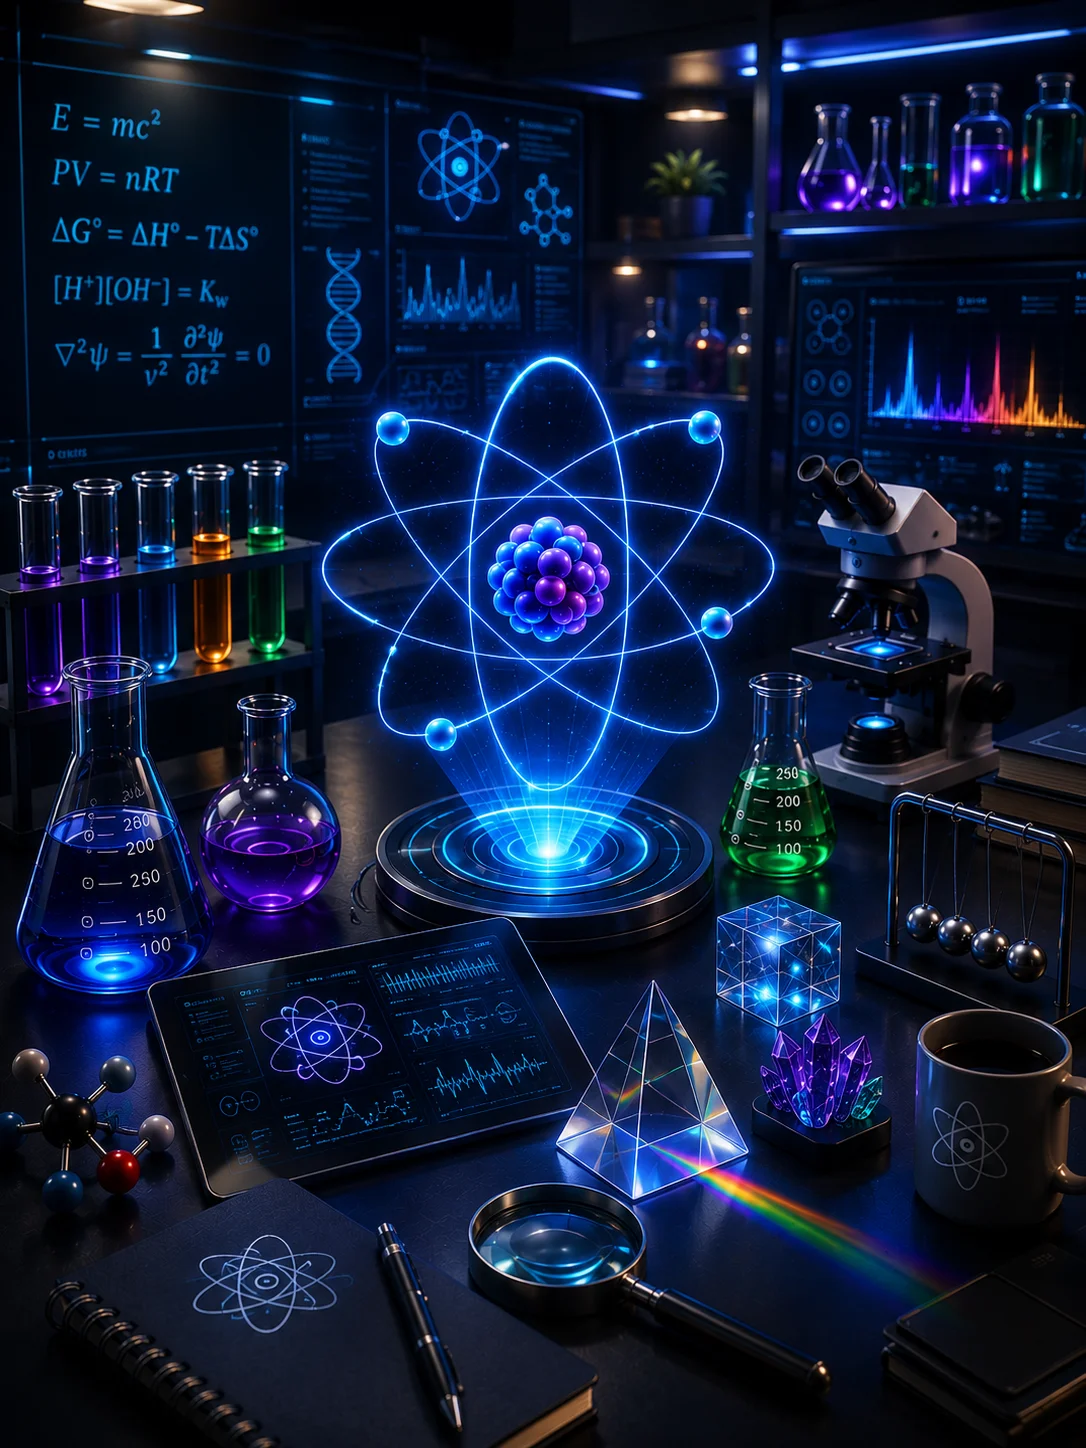
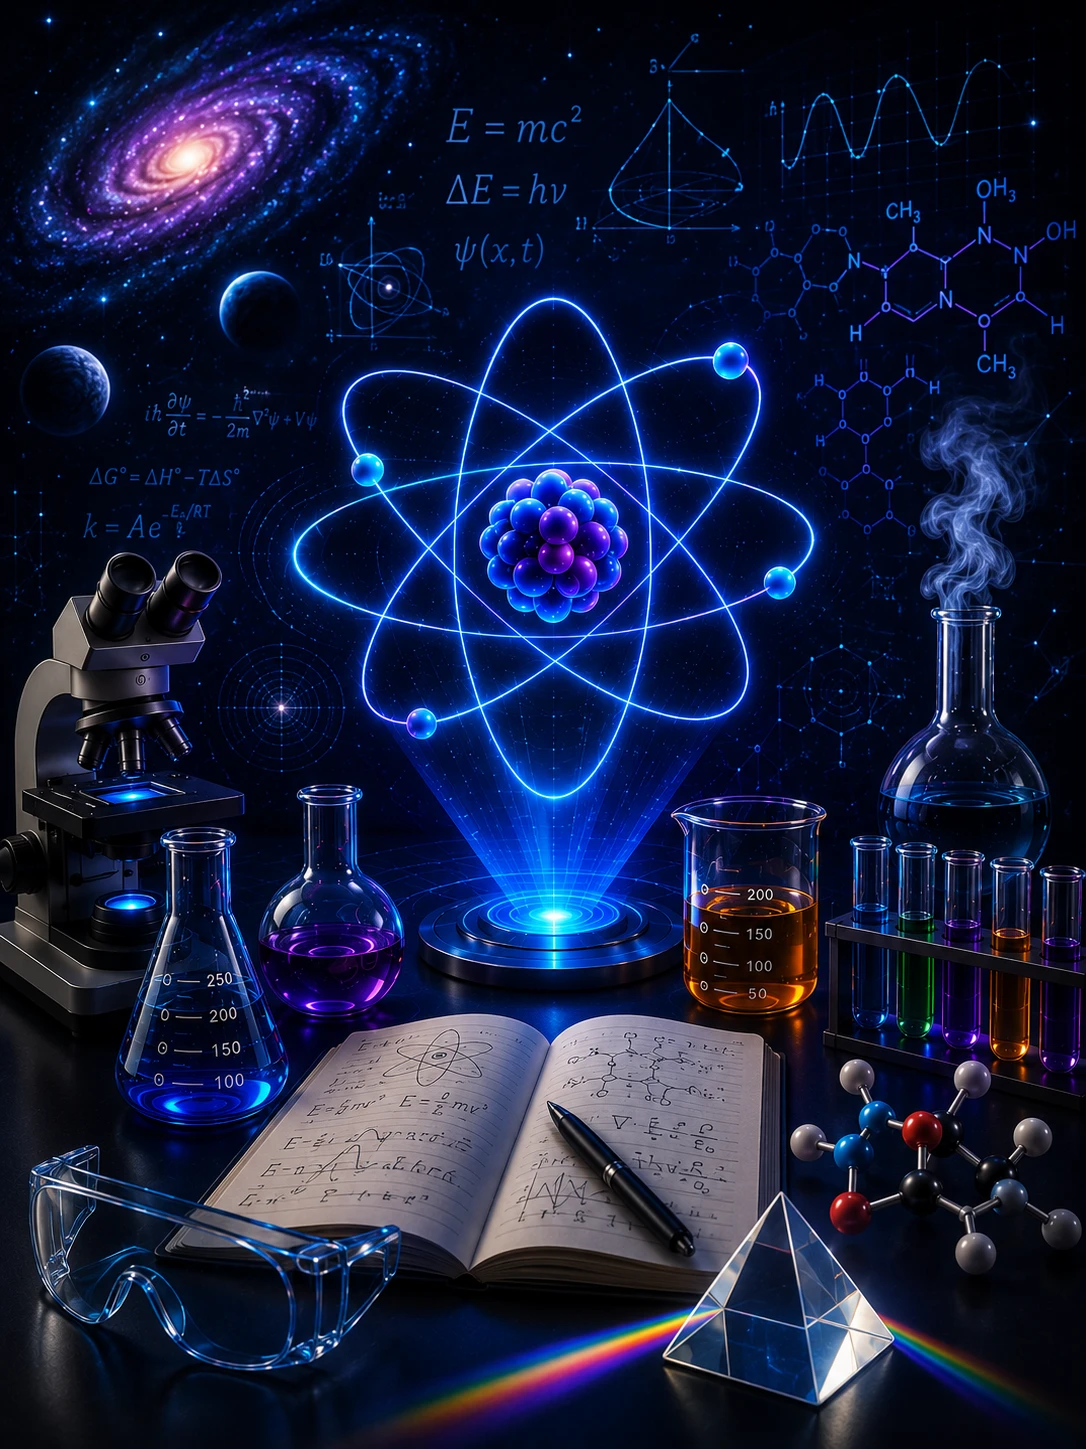
asd

diff --git a/movil.html b/movil.html
@@ -138,7 +138,7 @@ main { position:relative; z-index:10; padding:0; width:100%; margin:0; }
 #panel-publicaciones .pub-grid-wrapper { overflow:hidden; flex:1; min-height:0; }
 /* Sidebar publicaciones cuando JS lo reemplaza con volver: compacto, centrado */
 /* sidebar publicaciones: controlado por JS (_inyectarSidebarPublicaciones) */
-.control-group { display:flex; align-items:center; gap:0.4rem; position:static; transform:none; flex-wrap:wrap; }
+.control-group { display:flex; align-items:center; gap:0.4rem; position:static; transform:none; flex-wrap:wrap; transition:opacity 0.2s ease; }
 .control-label { font-size:0.65rem; font-weight:600; color:var(--muted); font-family:'Saira',sans-serif; }
 .control-btn { padding:0 5px; border:1px solid #999999; height:22px; background:transparent; border-radius:5px; color:var(--text); font-size:0.68rem; font-weight:500; cursor:pointer; transition:all 0.2s; white-space:nowrap; font-family:'Saira',sans-serif; display:flex; align-items:center; justify-content:center; gap:0.25rem; }
 .control-btn.active { background:var(--accent); border-color:var(--accent); color:#000; font-weight:500; }
@@ -356,7 +356,7 @@ body .contenedor-grande--curso .barra-interna > .control-group[style*="left:1200
 .temas-grid { display:grid; gap:6px; flex:1; justify-items:center; border:0; padding:0; height:auto; min-height:400px; grid-template-columns:repeat(4,1fr); }
 .unidades-grid { display:grid; column-gap:6px; row-gap:3px; flex:1; justify-items:center; border:0; padding:0; margin:0; grid-template-columns:repeat(4,1fr); grid-auto-rows:auto; }
 .contenedor-grande--publicaciones .publicaciones-grid { border:0; grid-template-columns:repeat(4,1fr); display:grid; column-gap:4px; row-gap:0px; flex:1; justify-items:stretch; align-items:start; padding:6px 4px 4px; margin-top:20px; margin-bottom:20px; align-content:start; overflow:visible; height:auto; max-height:none; }
-.unidad-ficha,.publicacion-ficha { position:relative; background:none; border:0; cursor:pointer; display:flex; flex-direction:column; align-items:center; justify-content:center; width:100%; gap:0; padding:6px 0 0 0; height:164px; min-height:164px; animation:popIn 0.6s 0s both; }
+.unidad-ficha,.publicacion-ficha { position:relative; background:none; border:0; cursor:pointer; display:flex; flex-direction:column; align-items:center; justify-content:center; width:100%; gap:0; padding:6px 0 0 0; height:163px; min-height:163px; animation:popIn 0.6s 0s both; }
 .unidad-icono { width:85px; height:85px; border-radius:50%; border:0; position:relative; background:#000000; box-shadow:inset 0 0 0 1px #999999; padding:0; }
 .unidad-icono img { width:100%; height:100%; object-fit:cover; transition:transform 0.3s ease; }
 .tema-rectangle { width:80px; height:100px; border-radius:0; border:none; position:relative; transition:transform 0.3s ease; background:transparent; overflow:hidden; }

diff --git a/sistema/temario.js b/sistema/temario.js
@@ -2829,12 +2829,16 @@ function actualizarUnidadInfo(cursoId) {
   const panelEl = document.getElementById('panel-' + cursoId);
   const temarioGrp = panelEl ? panelEl.querySelector('.barra-interna .control-group [data-sort]')?.closest('.control-group') : null;
 
+  const _esMobil = window.location.pathname.endsWith('movil.html');
+  function _mostrar(el) { if (!el) return; if (_esMobil) { el.style.opacity = '1'; el.style.pointerEvents = ''; } else { el.style.visibility = ''; } }
+  function _ocultar(el) { if (!el) return; if (_esMobil) { el.style.opacity = '0'; el.style.pointerEvents = 'none'; } else { el.style.visibility = 'hidden'; } }
+
   if (typeof estado === 'number') {
     // Dentro de una unidad: mostrar UNIDAD, ocultar PÁGINA del curso y grupo TEMARIO
-    if (cursoPagGrp)     cursoPagGrp.style.visibility    = 'hidden';
-    if (cursoFlechasGrp) cursoFlechasGrp.style.visibility = 'hidden';
-    if (temarioGrp)      temarioGrp.style.visibility     = 'hidden';
-    if (paginaEl)        paginaEl.style.visibility        = 'visible';
+    _ocultar(cursoPagGrp);
+    _ocultar(cursoFlechasGrp);
+    _ocultar(temarioGrp);
+    _mostrar(paginaEl);
     if (infoEl) {
       infoEl.textContent = (estado + 1) + ' / ' + total;
       if (infoEl._flipReady) {
@@ -2845,18 +2849,18 @@ function actualizarUnidadInfo(cursoId) {
         infoEl._flipReady = true;
       }
     }
-    if (flechasEl) flechasEl.style.visibility = 'visible';
-    if (prevBtn) { prevBtn.style.visibility = 'visible'; prevBtn.disabled = (estado === 0); }
-    if (nextBtn) { nextBtn.style.visibility = 'visible'; nextBtn.disabled = (estado === total - 1); }
+    _mostrar(flechasEl);
+    if (prevBtn) { _mostrar(prevBtn); prevBtn.disabled = (estado === 0); }
+    if (nextBtn) { _mostrar(nextBtn); nextBtn.disabled = (estado === total - 1); }
   } else {
     // Vista de temas: mostrar PÁGINA del curso y TEMARIO, ocultar UNIDAD
-    if (cursoPagGrp)     cursoPagGrp.style.visibility    = '';
-    if (cursoFlechasGrp) cursoFlechasGrp.style.visibility = '';
-    if (temarioGrp)      temarioGrp.style.visibility     = '';
-    if (paginaEl)        paginaEl.style.visibility        = 'hidden';
-    if (flechasEl)       flechasEl.style.visibility       = 'hidden';
-    if (prevBtn)         prevBtn.style.visibility          = 'hidden';
-    if (nextBtn)         nextBtn.style.visibility          = 'hidden';
+    _mostrar(cursoPagGrp);
+    _mostrar(cursoFlechasGrp);
+    _mostrar(temarioGrp);
+    _ocultar(paginaEl);
+    _ocultar(flechasEl);
+    _ocultar(prevBtn);
+    _ocultar(nextBtn);
   }
 }
 
